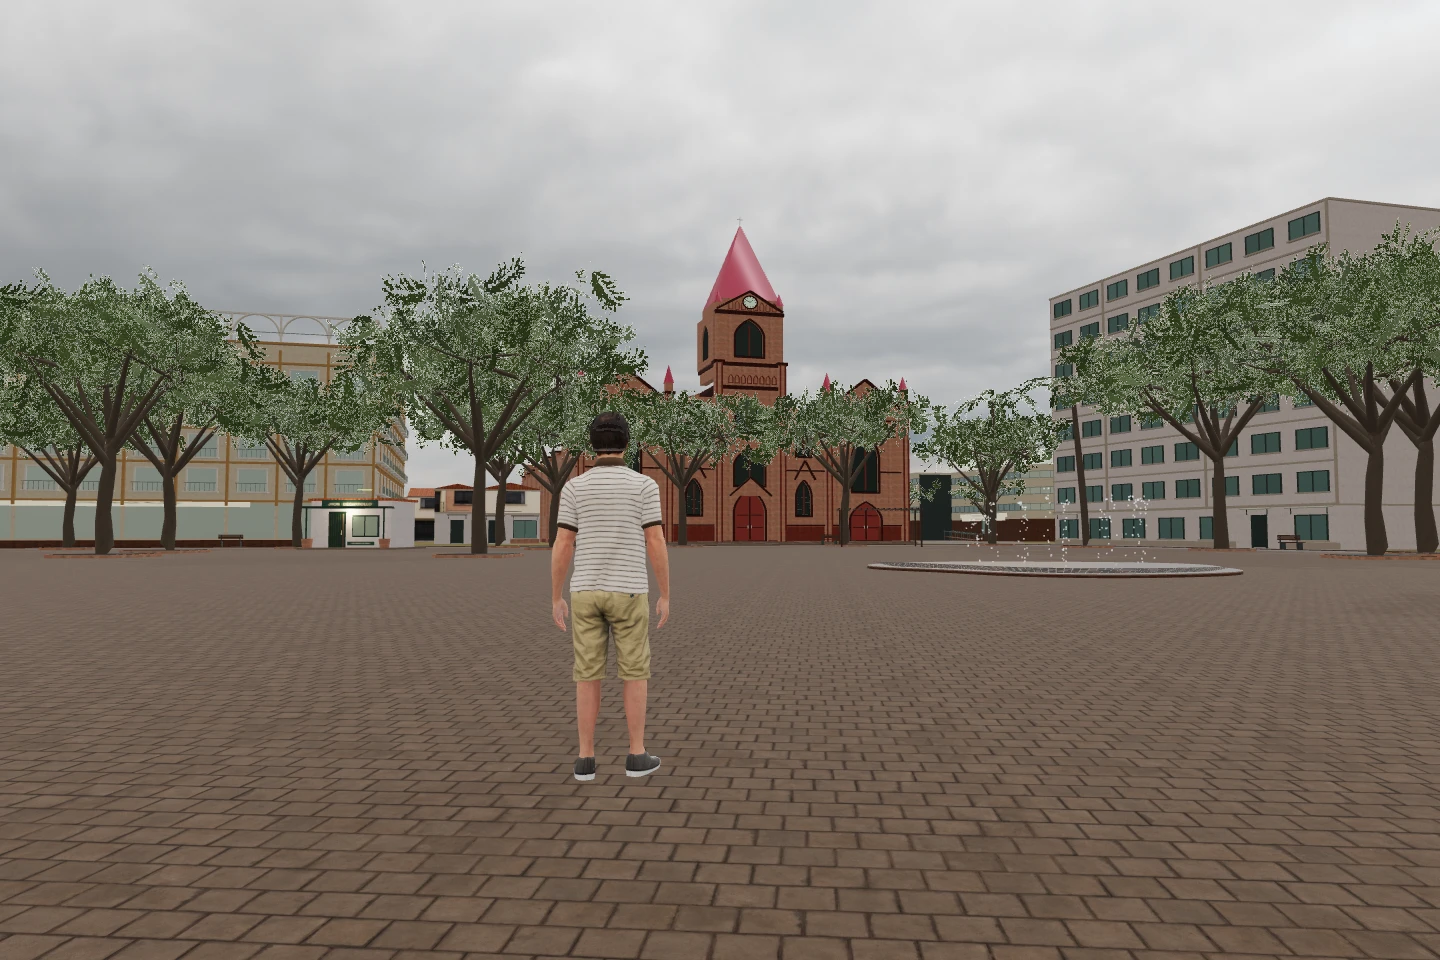
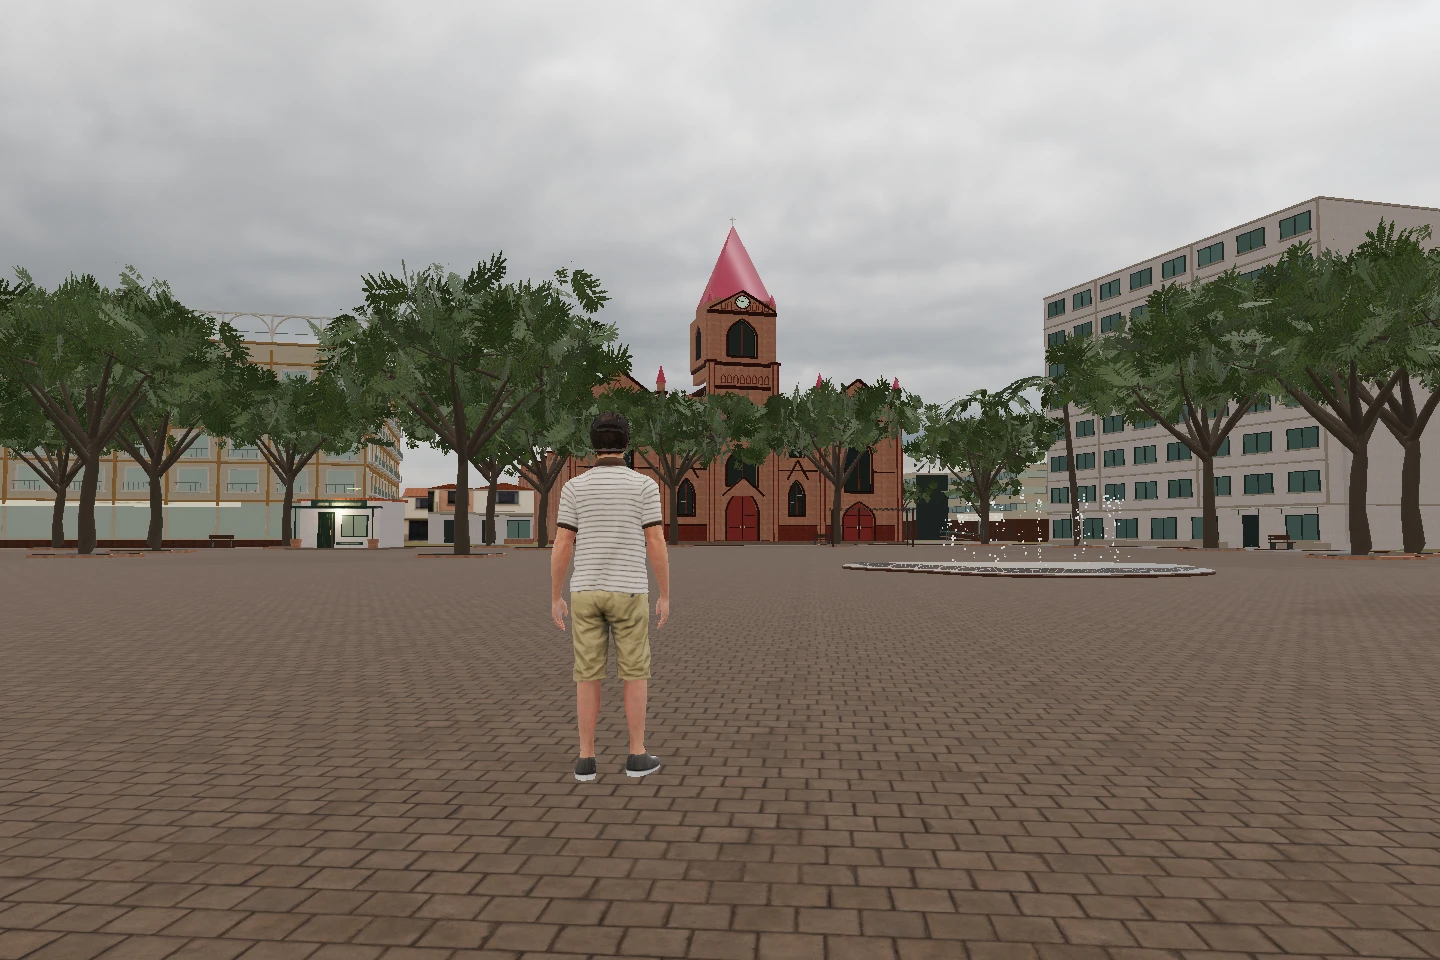
Publicar ficha de Neiva 0.4 con captura y revisión cartográfica

Changed region(s): [[0.0, 0.1875, 1.0, 0.625], [0.0, 0.75, 1.0, 1.0]]

diff --git a/neiva-abierta.js b/neiva-abierta.js
@@ -1,0 +1,41 @@
+// Ficha editorial separada del inventario GitHub y del perfil usado por la hoja de vida.
+// Evidencia fijada a la revisión publicada y comprobada de Neiva Abierta 0.4.
+export const NEIVA_REVISION_EVIDENCIA = "5fd5188fb125309eae3f0b76af3e4755948d07d6";
+const codigo = "https://github.com/SirHegel/neiva-abierta";
+const evidencia = `${codigo}/blob/${NEIVA_REVISION_EVIDENCIA}`;
+
+export const NEIVA_ABIERTA = {
+  slug: "neiva-abierta",
+  nombre: "Neiva Abierta",
+  resumen: "Exploración de Neiva con un personaje sin nombre, conducción y paradas del centro. El inspector distingue la geometría cartográfica de las alturas estimadas.",
+  repo: codigo,
+  demo: "https://neiva-abierta.vercel.app/",
+  estado: "Versión 0.4 · En desarrollo",
+  lenguajes: ["JavaScript", "Three.js", "Cartografía abierta", "Unreal C++"],
+  cifras: "22 cubiertas abiertas revisadas · Dimensiones físicas sin certificar",
+  porQue: `El recorrido comienza junto al Parque Santander. Puedes acercarte a sus edificios,
+    conducir y elegir una parada para observar el lugar con sus referencias. El pequeño estudio
+    ficticio permite contactar mis servicios de desarrollo. La ciudad conserva huellas de mapas
+    abiertos; el inspector muestra de dónde salen y señala las alturas que el juego estima.
+    Una ventana dibujada sigue siendo una decisión del modelo, aunque la dirección esté en el mapa.`,
+  detalles: [
+    ["Movimiento y conducción", "Caminar incorpora aceleración y frenado. El carro reduce la velocidad antes de conectar la reversa y limita el giro al ganar velocidad. La simulación usa un paso fijo; estas reglas no describen un automóvil medido."],
+    ["Recorrido con observación", "Elegir una parada activa una guía. La visita se registra al acercarse a pie y abrir su ficha, con referencias sobre el lugar. La distancia de la guía es en línea recta; no calcula una ruta libre de obstáculos."],
+    ["Inspector de edificios", "Muestra área y dimensiones de la huella cartográfica, identificador y procedencia. Separa la altura estimada de una etiqueta de altura en OSM; ninguna equivale aquí a una medición de campo. Incluye acceso al mapa oficial para revisar el lugar."],
+    ["Cubiertas abiertas", "La capa de correcciones conserva 22 techos etiquetados en OSM, incluidos 14 de gasolineras. Las paredes genéricas se retiran y la colisión queda en los soportes estimados, dejando paso bajo las cubiertas."],
+    ["Ediciones y entrega", "La edición del navegador usa Three.js/WebGL y controles táctiles. El repositorio incluye el proyecto fuente de Unreal; su compilación y ejecución siguen pendientes de verificación. Vercel sirve la edición web."],
+  ],
+  auditoria: {
+    queHice: "Integré datos abiertos, movimiento del personaje y conducción en una escena de Neiva. Añadí fichas de observación y un inspector de procedencia. La revisión cartográfica conserva los registros originales y aplica aparte las correcciones de cubiertas y de un contorno dañado por redondeo.",
+    contiene: "Una edición web jugable, el proyecto fuente Unreal y una revisión documentada del centro. El archivo cartográfico contiene 35.875 huellas de edificios: 878 de OSM y 34.997 de detección automática vía Overture. Las fachadas genéricas y las alturas ausentes son interpretaciones; el terreno del juego es plano.",
+    verificacion: `La <a href="${evidencia}/public/data/neiva-corrections.json" rel="noopener" target="_blank">capa de correcciones</a> conserva IDs, fuentes y el hash del mapa base. Seis <a href="${evidencia}/tests/cartographic-corrections.test.mjs" rel="noopener" target="_blank">pruebas de la capa</a> comprueban soportes dentro de las huellas y paso por once accesos antes bloqueados. Las reglas de movimiento tienen <a href="${evidencia}/docs/JUGABILIDAD.md" rel="noopener" target="_blank">modelo y comprobaciones documentados</a>. La <a href="${evidencia}/docs/FIDELIDAD.md" rel="noopener" target="_blank">auditoría de fidelidad</a> distingue errores confirmados de candidatos sin prueba independiente. La <a href="${evidencia}/docs/RENDIMIENTO.md" rel="noopener" target="_blank">medición en el Intel UHD probado</a> publica muestras y condiciones; no predice el rendimiento de otros equipos.`,
+    formula: "C = cubiertas de la fuente representadas abiertas / cubiertas etiquetadas en la fuente",
+    variables: "C es una proporción entre 0 y 1. La unidad es una huella OSM con building=roof; la revisión contiene 22. Se conserva cada identificador.",
+    base: "Antes de aplicar la corrección: 0/22. Después de la comprobación de la capa: 22/22 = 1. La cuenta mide la interpretación de esa etiqueta; no certifica la ciudad completa.",
+    umbral: "Umbral de la comprobación: C = 1; ninguna de las 22 cubiertas debe conservar una colisión de edificio cerrado.",
+    error: "σ = desconocida para las dimensiones físicas: no hay levantamiento de campo. Las posiciones y el tamaño de los soportes son estimados. Las pruebas geométricas no verifican el estado actual de cada inmueble.",
+    sanidad: "Con cero cubiertas el cociente no se calcula. Una cubierta cerrada hace fallar la cuenta. Las pruebas comprueban un paso por debajo del techo y una colisión en cada soporte, sin cambiar las alturas del archivo base.",
+    limites: "Las 34.997 huellas ML carecen de altura en el snapshot usado: el juego les asigna 5,8 m estimados. Tampoco se certifican los 25 valores escritos como height en OSM. No se ha recorrido cada barrio ni modelado todos los interiores. TODO(dato): levantamiento métrico con fecha y precisión, compilación de Unreal y medición en otros computadores y celulares físicos.",
+    costo: "Aplicar la capa recorre las huellas una vez: O(B + V) tiempo y espacio, donde B es el número de edificios y V los vértices revisados. Las reglas elementales de caminar y conducir cuestan O(1) por paso, aparte de las colisiones. TODO(dato): horas humanas, costo en pesos y rendimiento en otros computadores y celulares físicos.",
+  },
+};

diff --git a/juegos.js b/juegos.js
@@ -5,10 +5,10 @@ export const JUEGOS = [
   {
     slug: "neiva-abierta",
     nombre: "Neiva Abierta",
-    tipo: "Exploración 3D · Prototipo",
+    tipo: "Exploración 3D · Versión 0.4",
     titulo: "La ciudad, a tu paso.",
-    descripcion: "Recorre Neiva con un personaje sin nombre. Sube a un carro y encuentra un pequeño estudio ficticio donde contactar los servicios de desarrollo de Jhon.",
-    detalle: "Personaje y carro con modelos detallados, materiales fotográficos y una ciudad trazada con OpenStreetMap y Overture. Las fachadas y las alturas ausentes son interpretaciones.",
+    descripcion: "Recorre Neiva con un personaje sin nombre. Conduce por la ciudad o sigue las paradas del centro a pie; en un pequeño estudio ficticio puedes contactar los servicios de desarrollo de Jhon.",
+    detalle: "El carro acelera y frena antes de cambiar de sentido. Un inspector muestra la huella del edificio que tienes delante y distingue su altura estimada. Las fachadas siguen siendo interpretaciones.",
     url: "https://neiva-abierta.vercel.app/",
     repo: "https://github.com/SirHegel/neiva-abierta",
     accion: "Explorar Neiva",
@@ -31,7 +31,7 @@ export const JUEGOS = [
 // Captura del juego Neiva y arte CSS decorativo de Bloquitos; sin animación propia.
 function vistaJuego(slug) {
   if (slug === "neiva-abierta") return `<figure class="juego-ilustracion juego-captura">
-    <img src="/activos/neiva-abierta.webp" width="1440" height="960" alt="Personaje en el Parque Santander frente a la recreación de la Catedral de Neiva, con árboles y fuente" loading="lazy" decoding="async">
+    <img src="/activos/neiva-abierta.webp" width="1440" height="960" alt="Captura de Neiva Abierta 0.4 en calidad Alta: personaje en el Parque Santander frente a la Catedral recreada, árboles y fuente" loading="lazy" decoding="async">
     <figcaption class="juego-arte-nota">Captura del juego / Neiva Abierta</figcaption>
   </figure>`;
   return `<div class="juego-ilustracion juego-ilustracion-bloquitos" aria-hidden="true">
@@ -85,7 +85,7 @@ export function indiceJuegos() {
         </header>
         ${tarjetasJuegos()}
         <aside class="juegos-nota revelar" aria-label="Sobre estos juegos">
-          <div><p class="micro">Del mapa a la calle</p><p>Neiva Abierta es una interpretación jugable en desarrollo. Los datos proceden de <a href="https://www.openstreetmap.org/copyright" target="_blank" rel="noopener">OpenStreetMap y sus colaboradores</a> y de <a href="https://docs.overturemaps.org/attribution/" target="_blank" rel="noopener">Overture Maps</a>. Las fachadas, alturas ausentes y el estudio de Jhon son recreaciones; consulta el alcance y la fecha de los mapas dentro del juego.</p></div>
+          <div><p class="micro">Del mapa a la calle</p><p>Neiva Abierta es una interpretación jugable en desarrollo, trazada con <a href="https://www.openstreetmap.org/copyright" target="_blank" rel="noopener">OpenStreetMap y sus colaboradores</a> y <a href="https://docs.overturemaps.org/attribution/" target="_blank" rel="noopener">Overture Maps</a>. La revisión recupera 22 cubiertas abiertas que antes aparecían cerradas. El inspector muestra las dimensiones del mapa y su procedencia; las alturas carecen de medición de campo.</p><a class="mas" href="/proyectos/neiva-abierta/">Desarrollo y límites del juego <i aria-hidden="true">→</i></a></div>
           <div><p class="micro">También en el celular</p><p>Abre el juego y usa sus controles en pantalla. Neiva Abierta requiere un navegador con gráficos 3D; su fluidez depende del equipo. Bloquitos también admite gestos táctiles.</p><a class="mas" href="mailto:${esc(PERSONA.email)}">Hablemos de tu proyecto <i aria-hidden="true">↗</i></a></div>
         </aside>
       </div>

diff --git a/construir.js b/construir.js
@@ -21,6 +21,7 @@ import { auditarPublicacionOro, auditarSalidaEstaticaOro } from "./herramientas/
 import { leerContinuidadOro } from "./lib/continuidad-publicacion.js";
 import { cargarEstudioOro } from "./estudio-oro.js";
 import { indiceJuegos } from "./juegos.js";
+import { NEIVA_ABIERTA } from "./neiva-abierta.js";
 
 const raiz = dirname(fileURLToPath(import.meta.url));
 const salida = join(raiz, "publico");
@@ -173,7 +174,7 @@ function proyectoDesdeGitHub(repo) {
 
 const repositoriosGitHubVigentes = REPOSITORIOS_GITHUB.repositorios.map(repoConPerfilActual);
 const githubPorNombre = new Map(repositoriosGitHubVigentes.map((r) => [r.nombre.toLowerCase(), r]));
-const proyectosCurados = PROYECTOS.map((proyecto) => {
+const proyectosCurados = [...PROYECTOS, NEIVA_ABIERTA].map((proyecto) => {
   const vivo = proyecto.repo ? githubPorNombre.get(nombreRepo(proyecto.repo)) : null;
   return { ...proyecto, github: vivo || null };
 });
@@ -644,7 +645,7 @@ function proyecto(p) {
   const razon = p.automatico
     ? parrafosEscapados(p.porQue)
     : `<p class="lead">${p.porQue.trim()}</p>`;
-  const auditoria = auditoriaProyecto(p);
+  const auditoria = { ...auditoriaProyecto(p), ...(p.auditoria || {}) };
   const releases = auditoria.releases.length
     ? `      <div class="rejilla sep-m" data-escalonar>
 ${auditoria.releases.map((release) => `        <article class="ficha revelar">

diff --git a/memoria/proyectos.md b/memoria/proyectos.md
@@ -145,3 +145,39 @@ pruebas pertinentes aprobadas:
 catálogo estático, acceso sin JavaScript y navegación hacia Juegos. Los cuatro
 anchos del control local cumplieron los umbrales; axe WCAG 2/2.1 A/AA no
 detectó infracciones. La imagen construida coincide con el SHA del juego.
+
+## Ficha de Neiva 0.4, revisión del 7 de septiembre de 2026
+
+La preparación editorial actualiza la tarjeta de `/juegos/` y da a
+`/proyectos/neiva-abierta/` una ficha propia. Describe la conducción, las
+paradas de observación y el inspector de edificios; documenta las 22 cubiertas
+abiertas de OSM, incluidas 14 de gasolineras. Mantiene separadas las dimensiones
+de una huella del mapa y las dimensiones físicas sin medición de campo.
+
+La evidencia enlaza la revisión publicada del juego
+`5fd5188fb125309eae3f0b76af3e4755948d07d6`. La tarjeta incorpora su captura
+en calidad Alta, 1.440 × 960 px y 223.406 bytes; SHA-256
[1 lines of base64/hex data omitted]
+Se copia el WebP original, sin retoque. El texto alternativo indica la versión,
+el ajuste de calidad y los elementos visibles.
+
+Modelo: `C = superficies editoriales actualizadas / 2` —tarjeta y ficha—;
+base `0/2`, umbral previo a la comprobación `C = 1`, resultado local `2/2`.
+El build produjo 46 páginas. Pasaron 19 regresiones del sitio y una prueba
+de navegación hacia Juegos en cuatro anchos. La revisión adicional de tarjeta
+y ficha cubrió 320, 390, 960 y 1.440 px: ocho combinaciones, cero desbordamientos,
+cero errores JavaScript/HTTP de recursos públicos y cero infracciones
+WCAG 2/2.1 A/AA detectadas por axe. El servidor local simuló las respuestas de
+analítica y `/api/visita/`; esos servicios requieren verificación en producción.
+Sanidad: Bloquitos conserva su registro, arte y enlaces; el snapshot automático
+GitHub y las fuentes firmadas de la hoja de vida no se modifican.
+`σ = desconocida`: estos controles de Chrome no miden la fluidez del juego.
+La ficha es contenido estático; su generación cuesta O(T) tiempo y espacio
+para T caracteres de salida, sin nuevas dependencias de ejecución.
+
+El código de la ficha está en `neiva-abierta.js`, separado de `datos.js` para
+evitar alterar el perfil y la huella documental de la hoja de vida. Las
+secciones de auditoría conservan fuente, métrica con denominador, error,
+sanidad, costo y pendientes. Se enlaza la medición publicada del Intel UHD;
+permanecen pendientes otros computadores y celulares físicos. La ficha no
+extrapola ese resultado a todos los equipos.

diff --git a/memoria/decisiones.md b/memoria/decisiones.md
@@ -76,3 +76,13 @@ El personaje aparece frente a la Catedral y la fuente del Parque Santander;
 la imagen se obtiene dentro del juego. Se conserva el tamaño de 1.440 × 960
 px para mantener el espacio de la tarjeta. El archivo de 319.616 bytes se
 comparte con la portada del repositorio del juego; Bloquitos conserva su arte.
+
+La preparación de Neiva 0.4 separa su ficha editorial del inventario automático
+de GitHub. `neiva-abierta.js` reúne propósito, cambios de juego, auditoría de
+22 cubiertas y límites dimensionales. El catálogo mantiene dos juegos y la
+misma ruta del proyecto. No se editan el inventario sincronizado ni `datos.js`,
+que participa en el manifiesto de la hoja de vida. La evidencia se fija a
+`5fd5188fb125309eae3f0b76af3e4755948d07d6`; la captura 0.4 en calidad Alta
+reemplaza la anterior y conserva sus dimensiones. Los pendientes de rendimiento
+se limitan a otros computadores y celulares físicos, pues el Intel UHD ya
+cuenta con una medición documentada.

diff --git a/memoria/pendientes.md b/memoria/pendientes.md
@@ -8,3 +8,5 @@
 - `TODO(dato)`: intervalo oficial de incertidumbre para el área de coca 2024; el informe consultado publica conteo puntual y no una banda simple.
 
 - Auditoría, 6 de septiembre de 2026: la regla activa de Vercel comparte 12 solicitudes/600 s por IP y JA4 entre visitas e inicio de sesión. Se preparó la separación, pero la API la rechazó: limitación del plan. Se verificó que permanecen la versión activa 2, una regla y cero borradores; no hubo cambio de protección ni gasto.
+
+- Neiva 0.4, 7 de septiembre de 2026: evidencia y captura finales incorporadas; controles de ficha a 320/390/960/1.440 px aprobados. Permanecen `TODO(dato)`: mediciones en otros computadores y celulares físicos, levantamiento métrico de la ciudad con precisión/fecha y compilación del proyecto Unreal. El Intel UHD tiene medición publicada en el repositorio del juego.
